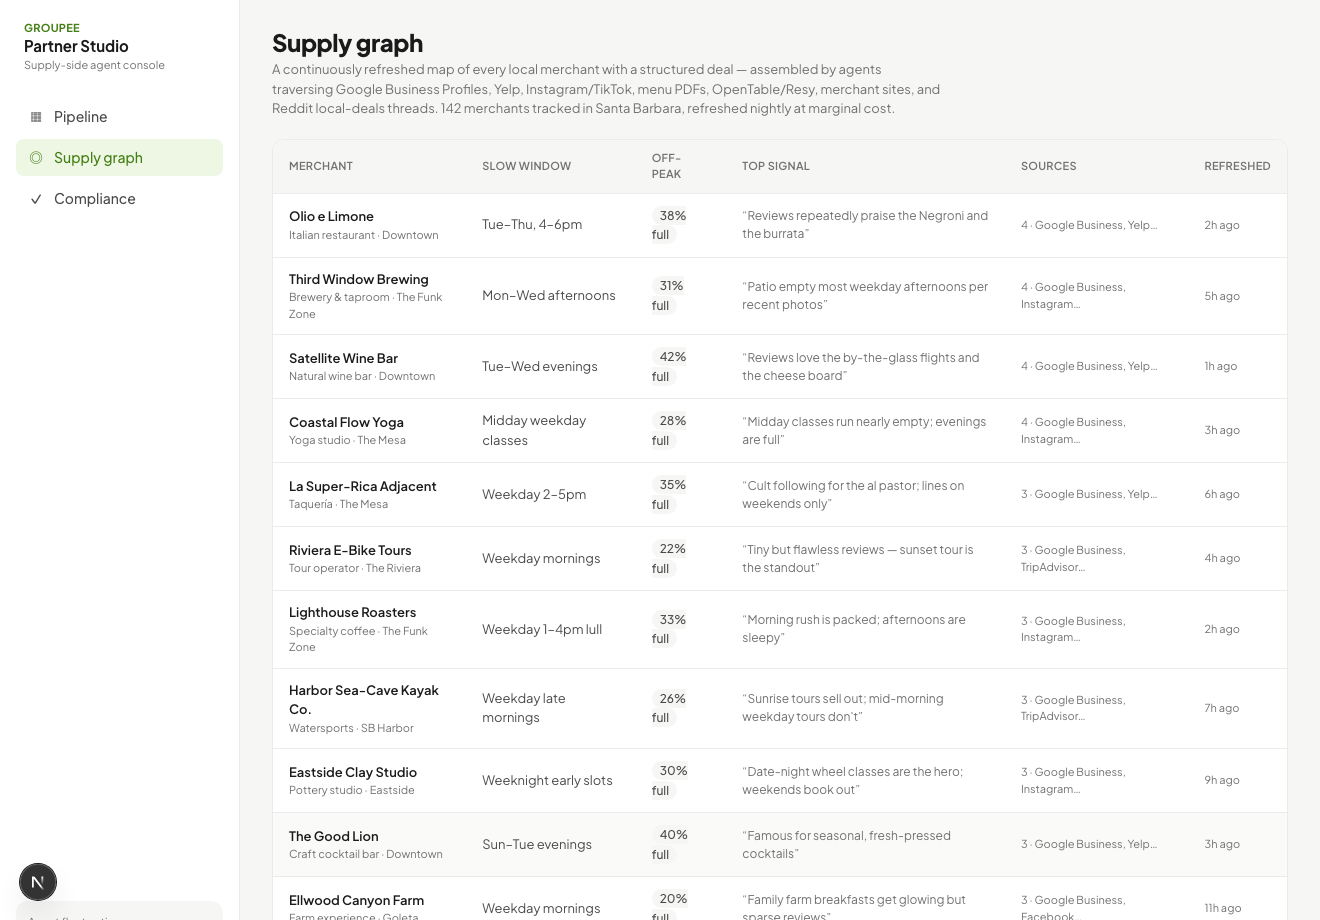
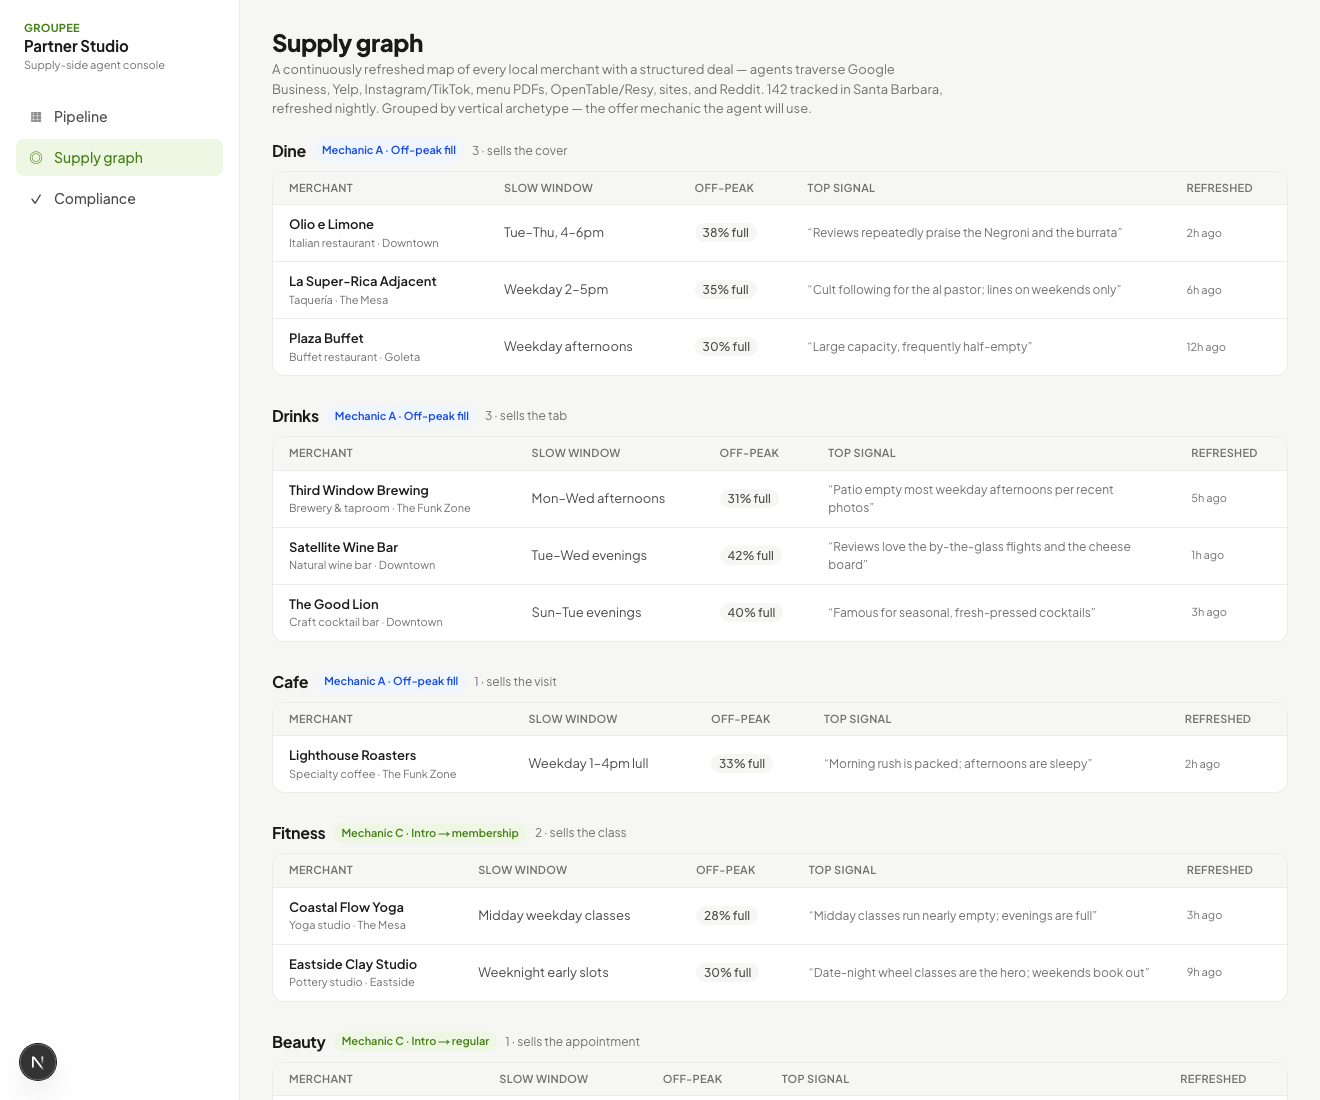
Rank feed by value; group supply graph by archetype
- Consumer Explore feed now ranks best-value-first (taste only nudges
  category to the top); header reads "best value first."
- /merchant/supply grouped by vertical archetype with mechanic badges
  (A/B/C) and the inventory unit per group.

diff --git a/app/merchant/supply/page.tsx b/app/merchant/supply/page.tsx
@@ -1,57 +1,82 @@
 import Link from "next/link";
 import { PROSPECTS, SUPPLY_STATS } from "@/lib/merchants";
+import { ARCHETYPES, archetypeFor, type Archetype } from "@/lib/archetypes";
 
 export const metadata = { title: "Groupee Partner Studio — Supply graph" };
 
+const MECH_STYLE: Record<string, string> = {
+  A: "bg-blue-50 text-blue-700",
+  B: "bg-violet-50 text-violet-700",
+  C: "bg-accent-soft text-accent-dark",
+};
+
 export default function SupplyGraphPage() {
+  // group prospects by archetype, in the canonical archetype order
+  const order = Object.keys(ARCHETYPES) as Archetype[];
+  const groups = order
+    .map((key) => ({
+      arc: ARCHETYPES[key],
+      items: PROSPECTS.filter((p) => archetypeFor(p.category).key === key),
+    }))
+    .filter((g) => g.items.length > 0);
+
   return (
     <div className="px-6 py-6 lg:px-8">
       <header className="mb-5">
         <h1 className="text-[24px] font-extrabold tracking-tight text-ink">Supply graph</h1>
         <p className="max-w-2xl text-[13px] text-muted">
-          A continuously refreshed map of every local merchant with a structured deal — assembled by
-          agents traversing Google Business Profiles, Yelp, Instagram/TikTok, menu PDFs, OpenTable/Resy,
-          merchant sites, and Reddit local-deals threads. {SUPPLY_STATS.tracked} merchants tracked in
-          Santa Barbara, refreshed nightly at marginal cost.
+          A continuously refreshed map of every local merchant with a structured deal — agents traverse
+          Google Business, Yelp, Instagram/TikTok, menu PDFs, OpenTable/Resy, sites, and Reddit.
+          {" "}{SUPPLY_STATS.tracked} tracked in Santa Barbara, refreshed nightly. Grouped by vertical archetype —
+          the offer mechanic the agent will use.
         </p>
       </header>
 
-      <div className="overflow-hidden rounded-xl border border-hairline bg-white">
-        <table className="w-full text-left text-[13px]">
-          <thead className="bg-canvas text-[11px] uppercase tracking-wide text-muted">
-            <tr>
-              <th className="px-4 py-2.5 font-semibold">Merchant</th>
-              <th className="px-4 py-2.5 font-semibold">Slow window</th>
-              <th className="px-4 py-2.5 font-semibold">Off-peak</th>
-              <th className="hidden px-4 py-2.5 font-semibold lg:table-cell">Top signal</th>
-              <th className="px-4 py-2.5 font-semibold">Sources</th>
-              <th className="px-4 py-2.5 font-semibold">Refreshed</th>
-            </tr>
-          </thead>
-          <tbody>
-            {PROSPECTS.map((p) => (
-              <tr key={p.id} className="border-t border-hairline hover:bg-canvas/60">
-                <td className="px-4 py-3">
-                  <Link href={`/merchant/${p.id}`} className="font-semibold text-ink hover:text-accent-dark">
-                    {p.name}
-                  </Link>
-                  <div className="text-[11px] text-muted">{p.category} · {p.neighborhood}</div>
-                </td>
-                <td className="px-4 py-3 text-ink-2">{p.offPeakWindow}</td>
-                <td className="px-4 py-3">
-                  <span className="rounded-full bg-canvas px-2 py-0.5 text-[12px] font-medium text-ink-2">
-                    {p.offPeakUtilizationPct}% full
-                  </span>
-                </td>
-                <td className="hidden max-w-xs px-4 py-3 text-[12px] text-muted lg:table-cell">
-                  “{p.signals[0]}”
-                </td>
-                <td className="px-4 py-3 text-[11px] text-muted">{p.sources.length} · {p.sources.slice(0, 2).join(", ")}…</td>
-                <td className="px-4 py-3 text-[11px] text-muted">{p.lastRefresh}</td>
-              </tr>
-            ))}
-          </tbody>
-        </table>
+      <div className="space-y-7">
+        {groups.map(({ arc, items }) => (
+          <section key={arc.key}>
+            <div className="mb-2 flex items-center gap-2">
+              <h2 className="text-[16px] font-bold capitalize text-ink">{arc.key}</h2>
+              <span className={`rounded-full px-2 py-0.5 text-[11px] font-semibold ${MECH_STYLE[arc.mechanic]}`}>
+                Mechanic {arc.mechanic} · {arc.mechanicName}
+              </span>
+              <span className="text-[12px] text-muted">{items.length} · sells the {arc.unit}</span>
+            </div>
+            <div className="overflow-hidden rounded-xl border border-hairline bg-white">
+              <table className="w-full text-left text-[13px]">
+                <thead className="bg-canvas text-[11px] uppercase tracking-wide text-muted">
+                  <tr>
+                    <th className="px-4 py-2 font-semibold">Merchant</th>
+                    <th className="px-4 py-2 font-semibold">Slow window</th>
+                    <th className="px-4 py-2 font-semibold">Off-peak</th>
+                    <th className="hidden px-4 py-2 font-semibold lg:table-cell">Top signal</th>
+                    <th className="px-4 py-2 font-semibold">Refreshed</th>
+                  </tr>
+                </thead>
+                <tbody>
+                  {items.map((p) => (
+                    <tr key={p.id} className="border-t border-hairline hover:bg-canvas/60">
+                      <td className="px-4 py-2.5">
+                        <Link href={`/merchant/${p.id}`} className="font-semibold text-ink hover:text-accent-dark">
+                          {p.name}
+                        </Link>
+                        <div className="text-[11px] text-muted">{p.category} · {p.neighborhood}</div>
+                      </td>
+                      <td className="px-4 py-2.5 text-ink-2">{p.offPeakWindow}</td>
+                      <td className="px-4 py-2.5">
+                        <span className="rounded-full bg-canvas px-2 py-0.5 text-[12px] font-medium text-ink-2">
+                          {p.offPeakUtilizationPct}% full
+                        </span>
+                      </td>
+                      <td className="hidden max-w-xs px-4 py-2.5 text-[12px] text-muted lg:table-cell">“{p.signals[0]}”</td>
+                      <td className="px-4 py-2.5 text-[11px] text-muted">{p.lastRefresh}</td>
+                    </tr>
+                  ))}
+                </tbody>
+              </table>
+            </div>
+          </section>
+        ))}
       </div>
     </div>
   );

diff --git a/app/page.tsx b/app/page.tsx
@@ -3,6 +3,7 @@
 import { useMemo, useState } from "react";
 import dynamic from "next/dynamic";
 import { CATEGORIES, EXPERIENCES, type Category } from "@/lib/data";
+import { experienceValue } from "@/lib/value";
 import { useGroupee } from "@/lib/store";
 import ExperienceCard from "@/components/ExperienceCard";
 
@@ -33,14 +34,16 @@ export default function ExplorePage() {
           e.tags.some((tag) => tag.includes(t))
       );
     }
+    // Rank best-value-first; taste only nudges category to the top.
+    const vs = (e: (typeof EXPERIENCES)[number]) => experienceValue(e).score;
     if (taste.done && taste.categories.length) {
       list.sort((a, b) => {
         const av = taste.categories.includes(a.category) ? 1 : 0;
         const bv = taste.categories.includes(b.category) ? 1 : 0;
-        return bv - av || b.rating - a.rating;
+        return bv - av || vs(b) - vs(a);
       });
     } else {
-      list.sort((a, b) => b.rating - a.rating);
+      list.sort((a, b) => vs(b) - vs(a));
     }
     return list;
   }, [cat, q, taste]);
@@ -103,7 +106,7 @@ export default function ExplorePage() {
         <div className="flex-1 px-4 pb-24 pt-3">
           <p className="mb-3 text-[13px] text-muted">
             {items.length} {items.length === 1 ? "experience" : "experiences"} ·{" "}
-            <span className="text-accent-dark">every listing clears our value bar</span>
+            <span className="text-accent-dark">best value first · every listing clears the bar</span>
           </p>
           <div className="flex flex-col gap-6">
             {items.map((e) => (
